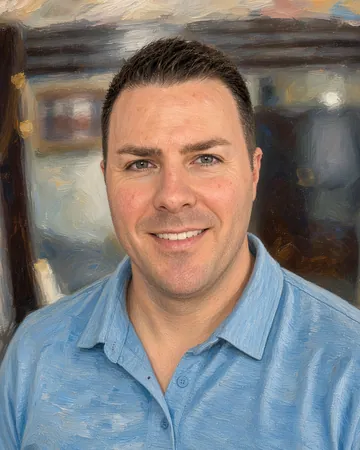
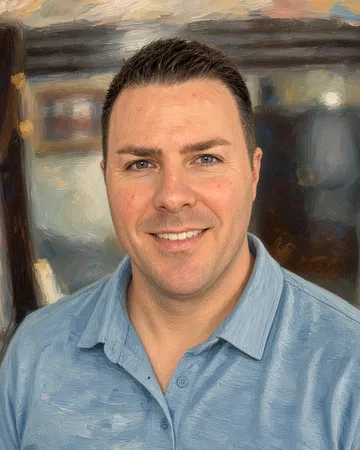
feat(site): calmer portrait grade, one serif in the opener, tighter phone index

diff --git a/site/styles.css b/site/styles.css
@@ -263,7 +263,7 @@ p { max-width: var(--measure); }
     "social social"
     "index  index";
   column-gap: var(--space-4);
-  padding-block: var(--space-10) var(--space-8);
+  padding-block: var(--space-10) var(--space-6);
   border-bottom: 1px solid var(--rule);
   position: relative;
 }
@@ -357,19 +357,22 @@ p { max-width: var(--measure); }
 }
 .kicker { display: flex; align-items: center; gap: var(--space-3); margin-bottom: var(--space-5); font-size: 0.8125rem; letter-spacing: 0.14em; text-transform: uppercase; color: var(--muted); }
 .kicker::before { content: ""; flex: none; width: 2rem; height: 1px; background: var(--ink); }
-.index { margin-top: var(--space-8); }
-.index-list { display: grid; grid-template-columns: repeat(auto-fit, minmax(min(100%, 12rem), 1fr)); gap: var(--space-2) var(--space-5); margin: 0; padding: 0; list-style: none; }
-.index-link { display: flex; align-items: baseline; gap: var(--space-3); min-height: var(--target-min); padding-top: var(--space-3); border-top: 3px solid var(--row-accent); color: var(--ink); text-decoration: none; }
-.index-num { font-family: var(--font-serif); font-size: 1.25rem; font-variant-numeric: lining-nums tabular-nums; color: var(--row-accent); }
-.index-name { font-family: var(--font-serif); font-size: 1.125rem; line-height: 1.25; text-decoration: underline; text-decoration-color: transparent; text-decoration-thickness: 1px; text-underline-offset: 0.2em; transition: text-decoration-color var(--dur) var(--ease); }
+/* Phone spacing is tight so the first project title reaches a 390×844 first screen */
+.index { margin-top: var(--space-6); }
+.index-list { display: grid; grid-template-columns: repeat(auto-fit, minmax(min(100%, 12rem), 1fr)); gap: 0 var(--space-5); margin: 0; padding: 0; list-style: none; }
+.index-link { display: flex; align-items: baseline; gap: var(--space-3); min-height: var(--target-min); padding-top: var(--space-2); border-top: 3px solid var(--row-accent); color: var(--ink); text-decoration: none; }
+.index-num { font-family: var(--font-reading); font-size: 1.25rem; font-variant-numeric: lining-nums tabular-nums; color: var(--row-accent); }
+.index-name { font-family: var(--font-reading); font-size: 1.125rem; line-height: 1.25; text-decoration: underline; text-decoration-color: transparent; text-decoration-thickness: 1px; text-underline-offset: 0.2em; transition: text-decoration-color var(--dur) var(--ease); }
 .index-link:hover .index-name { text-decoration-color: var(--row-accent); }
 /* Four items never wrap 3 + 1: two by two until there is room for one row */
-@media (min-width: 37.5em) and (max-width: 63.99em) { .index-list { grid-template-columns: repeat(2, minmax(0, 1fr)); } }
+@media (min-width: 37.5em) and (max-width: 63.99em) { .index-list { grid-template-columns: repeat(2, minmax(0, 1fr)); row-gap: var(--space-2); } }
 
 /* ---------- 7. Section rhythm ---------- */
 .projects { padding-block: 0 var(--space-6); }
 @media (min-width: 48em) {
   .opener { padding-block: var(--space-12) var(--space-10); }
+  .index { margin-top: var(--space-8); }
+  .index-link { padding-top: var(--space-3); }
   .projects { padding-block: 0 var(--space-8); }
 }
 

diff --git a/DESIGN.md b/DESIGN.md
@@ -26,7 +26,7 @@ Production notes (feature galleries, 2026-09-30):
 
 Production notes (visual character, 2026-10-11):
 
[2 lines of base64/hex data omitted]
 - Accent tokens, with roles: `--spire` (The Dark Spire, antique gold, `#7a5c12`), `--ember` (Darklight, torch ember, `#a8470a`), `--mapper` (Dungeon Mapper, map green, `#2f6b4c`), `--npc` (NPC Voice, violet, `#6b3fa0`), `--accent` (shared default for links, paper focus, and unmatched rows, `#1d4ed8`), `--ring-on-ink` (focus and hover on the ink band, `#9db7ff`). Computed ratios:
 
   | Token | on `--bg` | on `--paper` |
@@ -72,7 +72,7 @@ Production notes (dark theme, 2026-10-11):
 
 Production notes (opener portrait, 2026-10-12):
 
-- Portrait: owner-supplied painted portrait, cropped 4:5 (960×1200 from the 1408 square at +245+40, face centred, eyes about 36% down), exported as WebP q80 at 720×900 (`site/assets/portrait/jeremy.webp`, about 102 KB) and 360×450 (`jeremy-360.webp`, about 22 KB) with all EXIF/XMP/ICC stripped (`magick -strip`), served via `srcset` with `sizes` mirroring the CSS widths (so DPR 3 phones take the 360w file), eager with `fetchpriority="high"`, explicit `width`/`height`, alt "Painted portrait of Jeremy Fabre". It is a `figure.portrait` in `header.opener` between the social links and the index, hung like the project captures: a `--paper` mat (`--space-1`, `--space-2` from 48em), a `--frame-line` hairline and the `--offset` block in `--ink`, not a project accent, because it belongs to no project; dark sets `--portrait-offset` (`#574a3b`, in both dark lists) so the block reads as a shadow rather than a cream slab. The opener is a grid: below 43em the portrait sits top-right at `clamp(7rem, 30vw, 12rem)` (the 12rem cap keeps a real portrait at 600–767px and 200% zoom) with the name bottom-aligned beside it and the role, deck, links and index full width; from 43em (where a one-line name would leave a void above it) it takes its own `clamp(13rem, 22vw, 18rem)` column, with a `--space-4` top margin on name and portrait until 48em to clear the theme switch, beside the name/role/deck/links stack (name top-aligned with it), and the index spans both columns. It starts below the theme switch at every width. It is not interactive and has no hover; it joins the opener's gated rise with the name's 40ms delay, since it sits beside the name. The project index is two by two from 37.5em to 64em so four items never wrap 3 + 1. The role reads "Senior Software Developer", matching the title, and the header link is labelled "LinkedIn" beside "GitHub"; the footer keeps "Message me on LinkedIn". Print and forced colours hide the offset block and clear its padding.
+- Portrait: owner-supplied painted portrait, cropped 4:5 (960×1200 from the 1408 square at +245+40, face centred, eyes about 36% down), graded before export (blue hues 0.52–0.68 with saturation above about 15% taken to 68% saturation through a feathered mask, so the polo reads slate and no longer outshouts the warm palette; then a slight warm colour matrix R×1.02, B×0.955; no smoothing filter, because it flattened the source brushwork), exported as WebP q80 at 720×900 (`site/assets/portrait/jeremy.webp`, about 110 KB) and 360×450 (`jeremy-360.webp`, about 24 KB) with all EXIF/XMP/ICC stripped (`magick -strip`), served via `srcset` with `sizes` mirroring the CSS widths (so DPR 3 phones take the 360w file), eager with `fetchpriority="high"`, explicit `width`/`height`, alt "Painted portrait of Jeremy Fabre". It is a `figure.portrait` in `header.opener` between the social links and the index, hung like the project captures: a `--paper` mat (`--space-1`, `--space-2` from 48em), a `--frame-line` hairline and the `--offset` block in `--ink`, not a project accent, because it belongs to no project; dark sets `--portrait-offset` (`#574a3b`, in both dark lists) so the block reads as a shadow rather than a cream slab. The opener is a grid: below 43em the portrait sits top-right at `clamp(7rem, 30vw, 12rem)` (the 12rem cap keeps a real portrait at 600–767px and 200% zoom) with the name bottom-aligned beside it and the role, deck, links and index full width; from 43em (where a one-line name would leave a void above it) it takes its own `clamp(13rem, 22vw, 18rem)` column, with a `--space-4` top margin on name and portrait until 48em to clear the theme switch, beside the name/role/deck/links stack (name top-aligned with it), and the index spans both columns. It starts below the theme switch at every width. Below 48em the opener closes on `--space-6` and the index hangs `--space-6` below the links as a single list with no row gap and `--space-2` above each name (44px targets kept), so at 390×844 the first project title reaches the first screen; from 48em the index returns to `--space-8` and `--space-3`. It is not interactive and has no hover; it joins the opener's gated rise with the name's 40ms delay, since it sits beside the name. The project index is two by two from 37.5em to 64em so four items never wrap 3 + 1. The role reads "Senior Software Developer", matching the title, and the header link is labelled "LinkedIn" beside "GitHub"; the footer keeps "Message me on LinkedIn". Print and forced colours hide the offset block and clear its padding.
 
 ---
 
